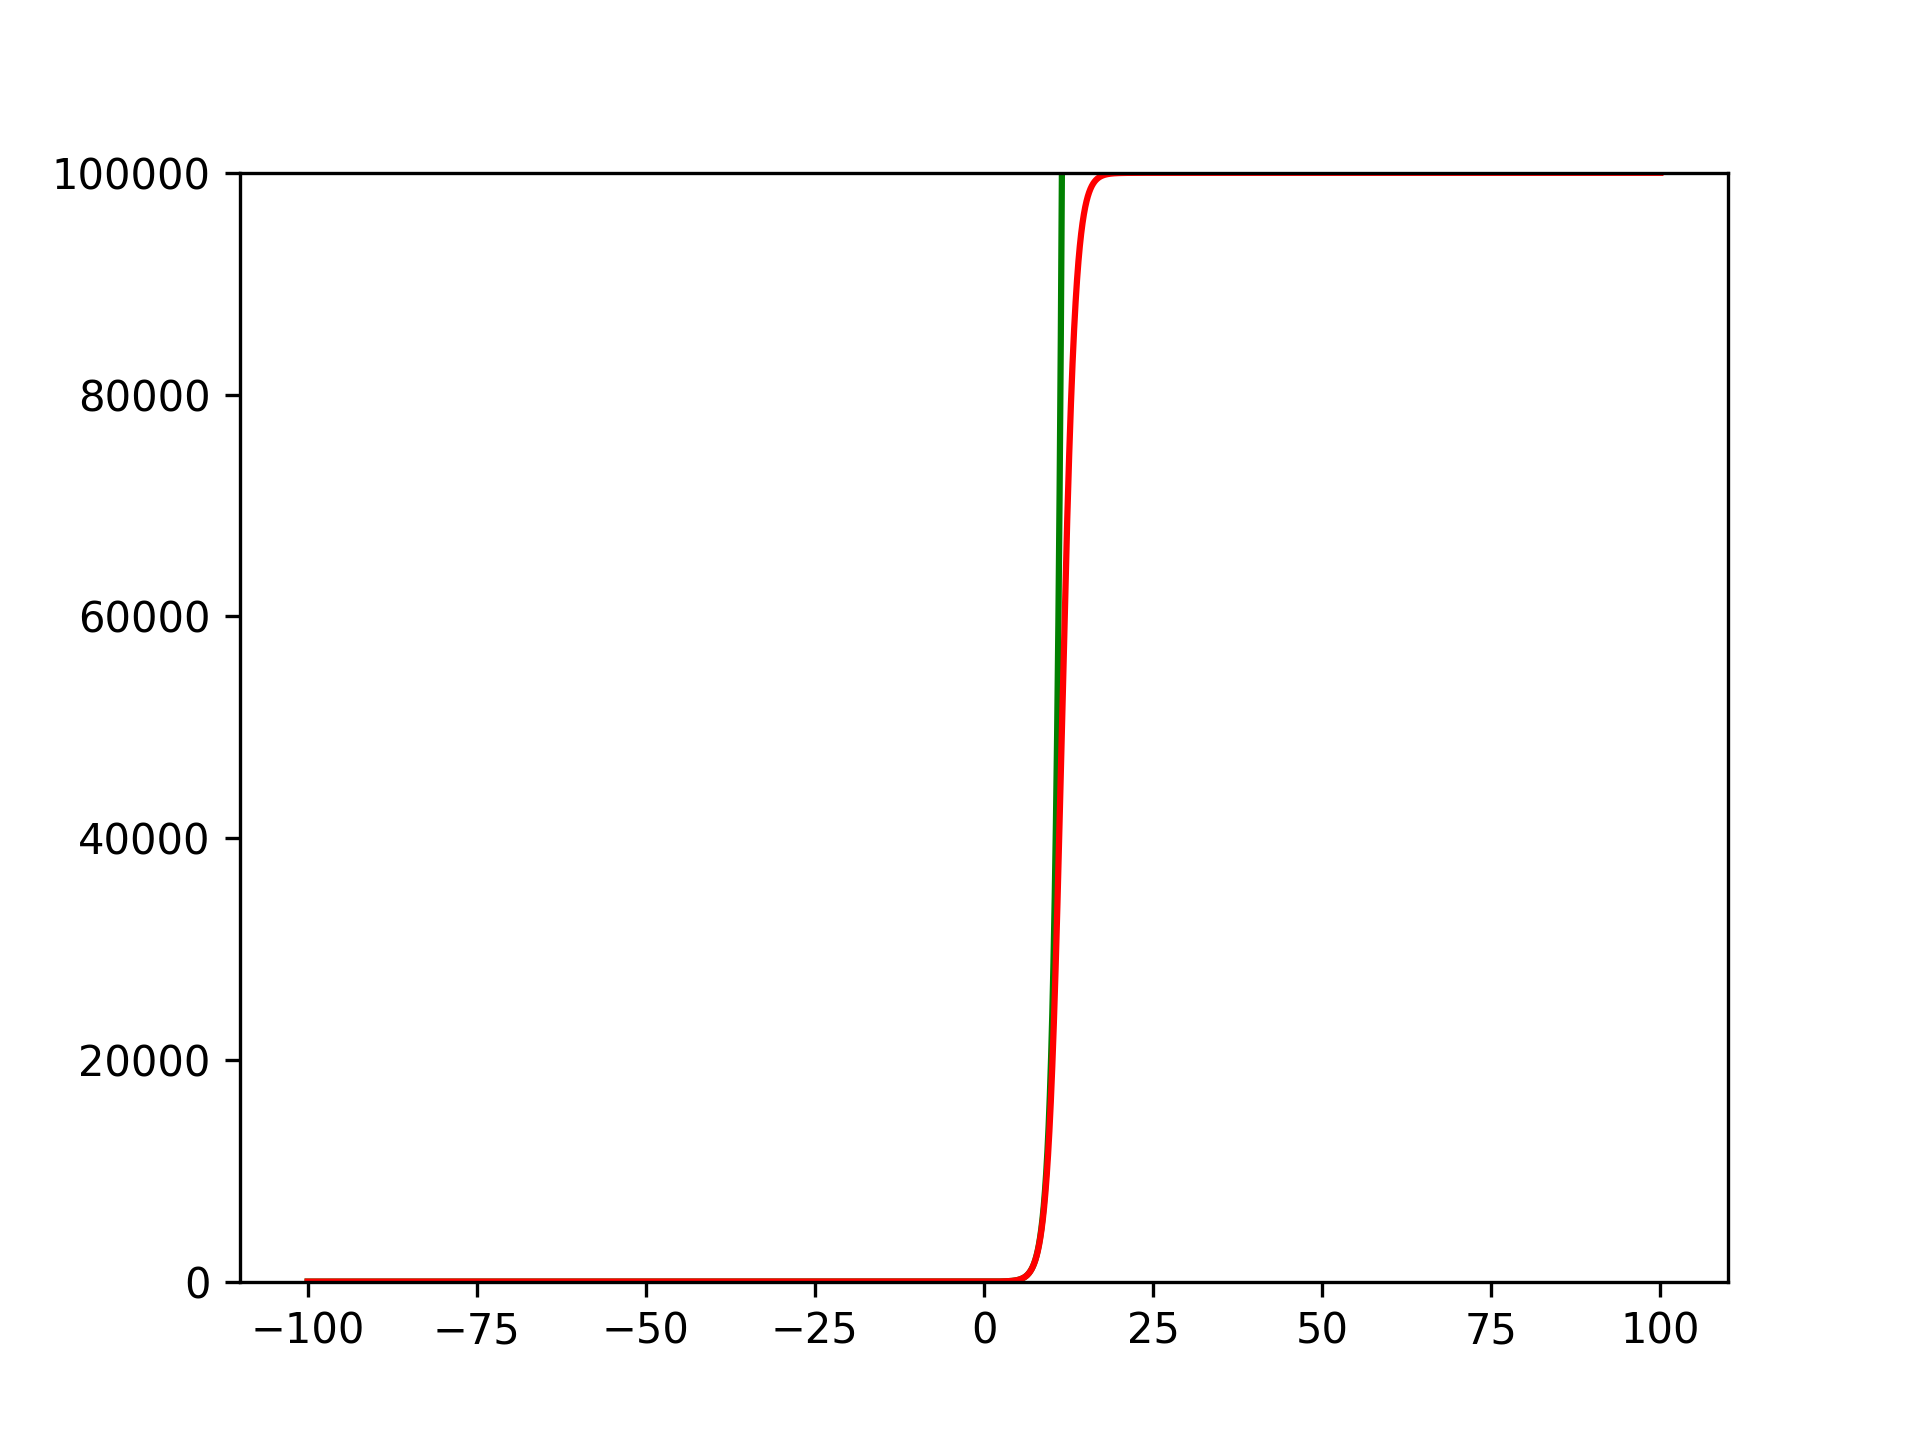
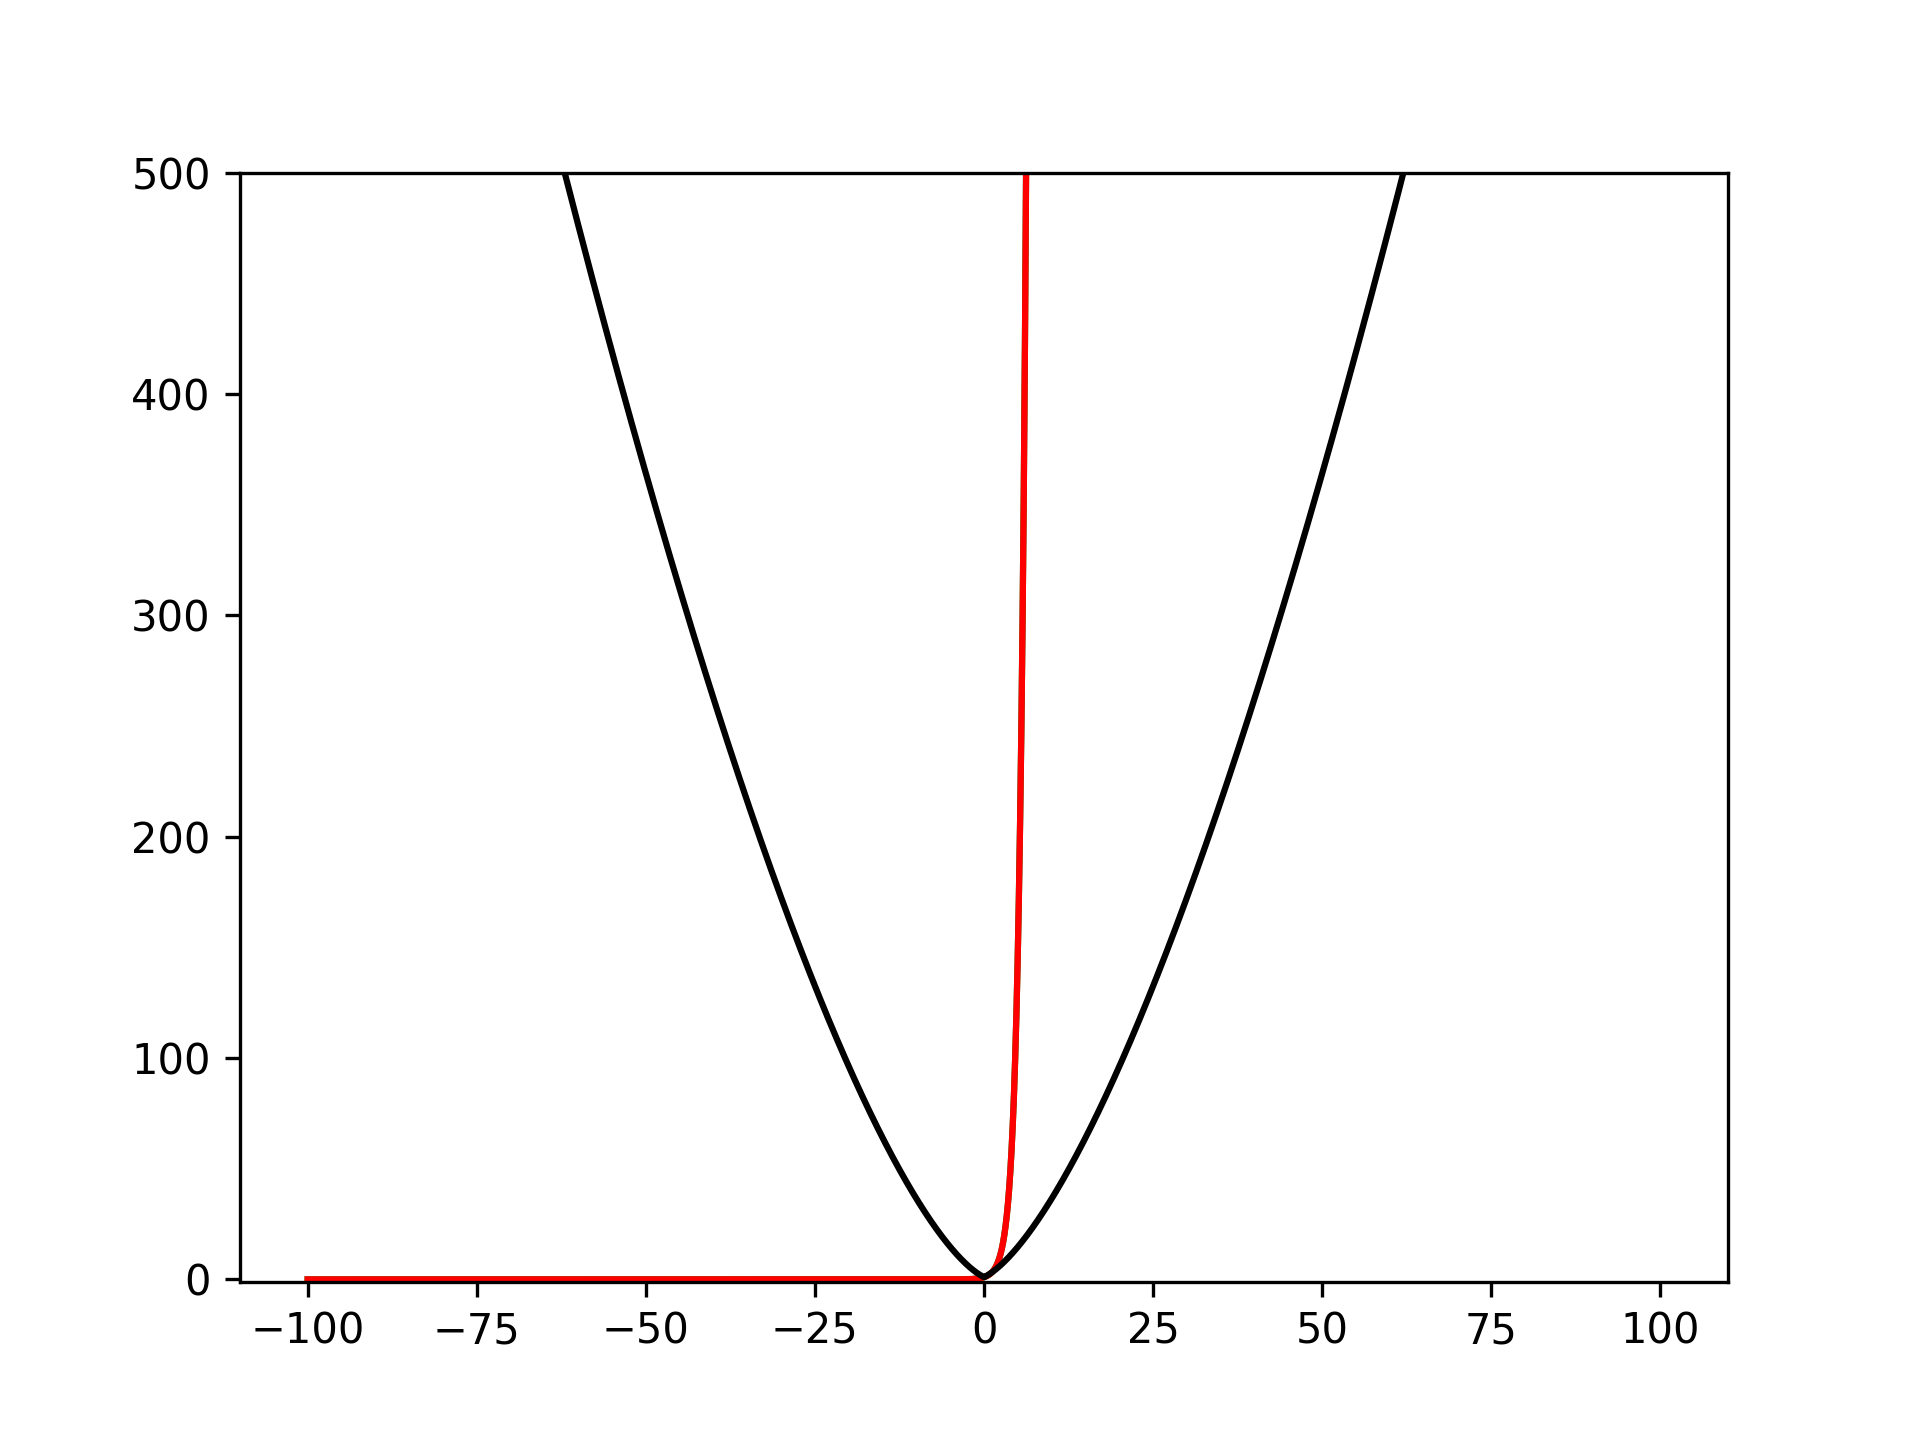
softplus activation

diff --git a/mmseg/models/losses/edl_loss.py b/mmseg/models/losses/edl_loss.py
@@ -5,7 +5,7 @@ from ..builder import LOSSES
 import torchmetrics
 from mmcv.utils import print_log
 import numpy as np
-EPS = 1e-7  # 1e-5
+EPS = 1e-9
 
 
 def relu_evidence(logits):
@@ -39,17 +39,14 @@ def exp_0_evidence(logits):
 def exp_1_evidence(logits):
     # This one usually works better and used for the second and third examples
     # For general settings and different datasets, you may try this one first
-
     return 1. / (torch.exp(-logits) + EPS)
 
 
 def exp_2_evidence(logits):
     # This one usually works better and used for the second and third examples
     # For general settings and different datasets, you may try this one first
-
     mask_pos = (logits >= 0)
     mask_neg = ~mask_pos
-
     ans = torch.zeros_like(logits)
     ans[mask_pos] = 1 / (EPS + torch.exp(-logits[mask_pos]))
     ans[mask_neg] = torch.exp(logits[mask_neg])
@@ -77,16 +74,19 @@ def mse_edl_loss(one_hot_gt, alpha, num_classes):
     return A, B, C, D, E
 
 
-def ce_edl_loss(one_hot_gt, alpha, num_classes, func, full=False, with_var=False):
+def ce_edl_loss(one_hot_gt, alpha, num_classes, func, bis=False, with_var=False, reg=False):
     strength = torch.sum(alpha, dim=1, keepdim=True)
     # L_err
     A = torch.sum(one_hot_gt * (func(strength) - func(alpha)), axis=1, keepdims=True)
-    if full:
+    if bis:
         A_ = torch.sum((1 - one_hot_gt) * (func(strength) - func(strength - alpha)), axis=1, keepdims=True)
         A = A + A_
     if with_var:
         B = torch.sum(alpha * (strength - alpha) / (strength * strength * (strength + 1)), dim=1, keepdim=True)
         A = A + B
+    if reg:
+        A = A + 0.001 * strength
+
     # L_kl
     alpha_kl = (alpha - 1) * (1 - one_hot_gt) + 1
     C = KL(alpha_kl, num_classes)
@@ -249,7 +249,7 @@ class EDLLoss(nn.Module):
             elif self.regularization == 'none':
                 loss = A
         elif self.loss_name.endswith("mll_bis"):  # Eq. 3 Maximum Likelihood Type II
-            A, C, D, E = ce_edl_loss(one_hot_gt, alpha, self.num_classes, func=torch.log, full=True)
+            A, C, D, E = ce_edl_loss(one_hot_gt, alpha, self.num_classes, func=torch.log, bis=True)
             if self.regularization == 'kld':
                 loss = A + self.lam_schedule[self.epoch_num] * C
             elif self.regularization == 'euc':
@@ -258,7 +258,16 @@ class EDLLoss(nn.Module):
             elif self.regularization == 'none':
                 loss = A
         elif self.loss_name.endswith("mll_var"):  # Eq. 3 Maximum Likelihood Type II
-            A, C, D, E = ce_edl_loss(one_hot_gt, alpha, self.num_classes, func=torch.log, full=False, with_var=True)
+            A, C, D, E = ce_edl_loss(one_hot_gt, alpha, self.num_classes, func=torch.log, bis=False, with_var=True)
+            if self.regularization == 'kld':
+                loss = A + self.lam_schedule[self.epoch_num] * C
+            elif self.regularization == 'euc':
+                # D: acc_uncertain, E: inacc_certain
+                loss = A + self.lam_schedule[self.epoch_num] * D + (1. - self.lam_schedule[self.epoch_num]) * E
+            elif self.regularization == 'none':
+                loss = A
+        elif self.loss_name.endswith("mll_reg"):  # Eq. 3 Maximum Likelihood Type II
+            A, C, D, E = ce_edl_loss(one_hot_gt, alpha, self.num_classes, func=torch.log, bis=False, with_var=False, reg=True)
             if self.regularization == 'kld':
                 loss = A + self.lam_schedule[self.epoch_num] * C
             elif self.regularization == 'euc':

diff --git a/plot_activation.py b/plot_activation.py
@@ -14,8 +14,8 @@ def exp(logits):
     return ans
 
 
-ans = exp(logits)
-import ipdb; ipdb.set_trace()
+# ans = exp(logits)
+# import ipdb; ipdb.set_trace()
 
 # output = 1. / (torch.exp(-1 * logits) + EPS)
 fig = plt.figure()
@@ -23,7 +23,7 @@ fig = plt.figure()
 # plt.plot(logits, 1. / (torch.exp(-.1 * logits) + EPS), label="inv_.1", color='b')
 plt.plot(logits, torch.exp(logits), label="regular", color='g')
 plt.plot(logits, exp(logits), label="inv", color='r')
-
-plt.axis([None, None, -1, 1 / EPS + 1])
+plt.plot(logits, (torch.abs(logits) + 1)**1.5, label="inv", color='k')
+plt.axis([None, None, -1, 500])
 plt.savefig("exp_eps_jj.png", dpi=300)
-import ipdb; ipdb.set_trace()
+# import ipdb; ipdb.set_trace()
